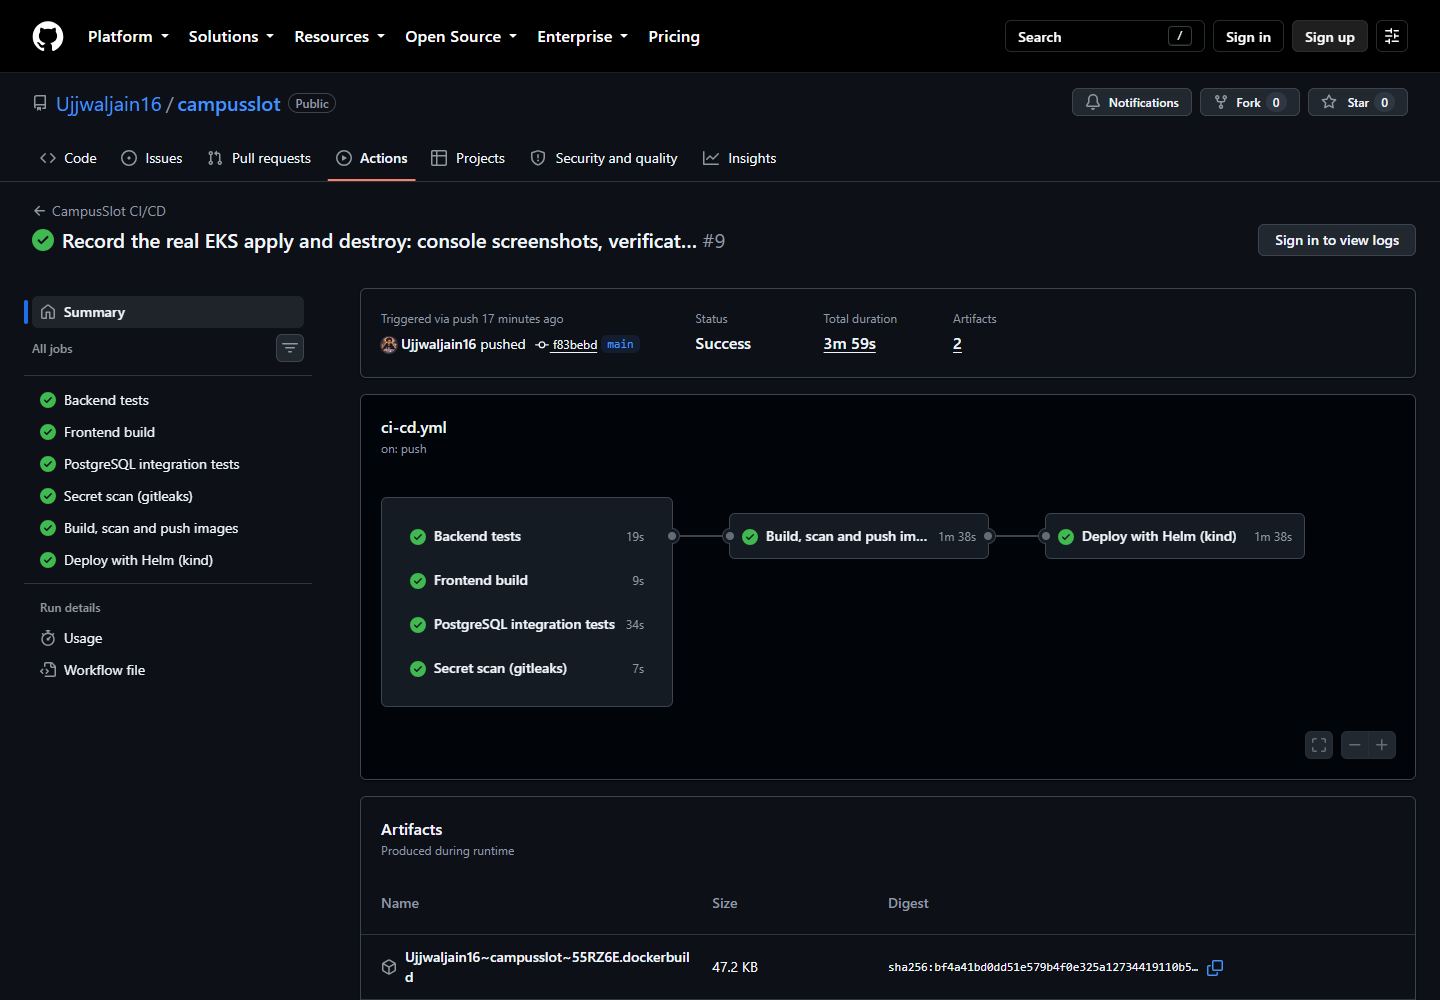
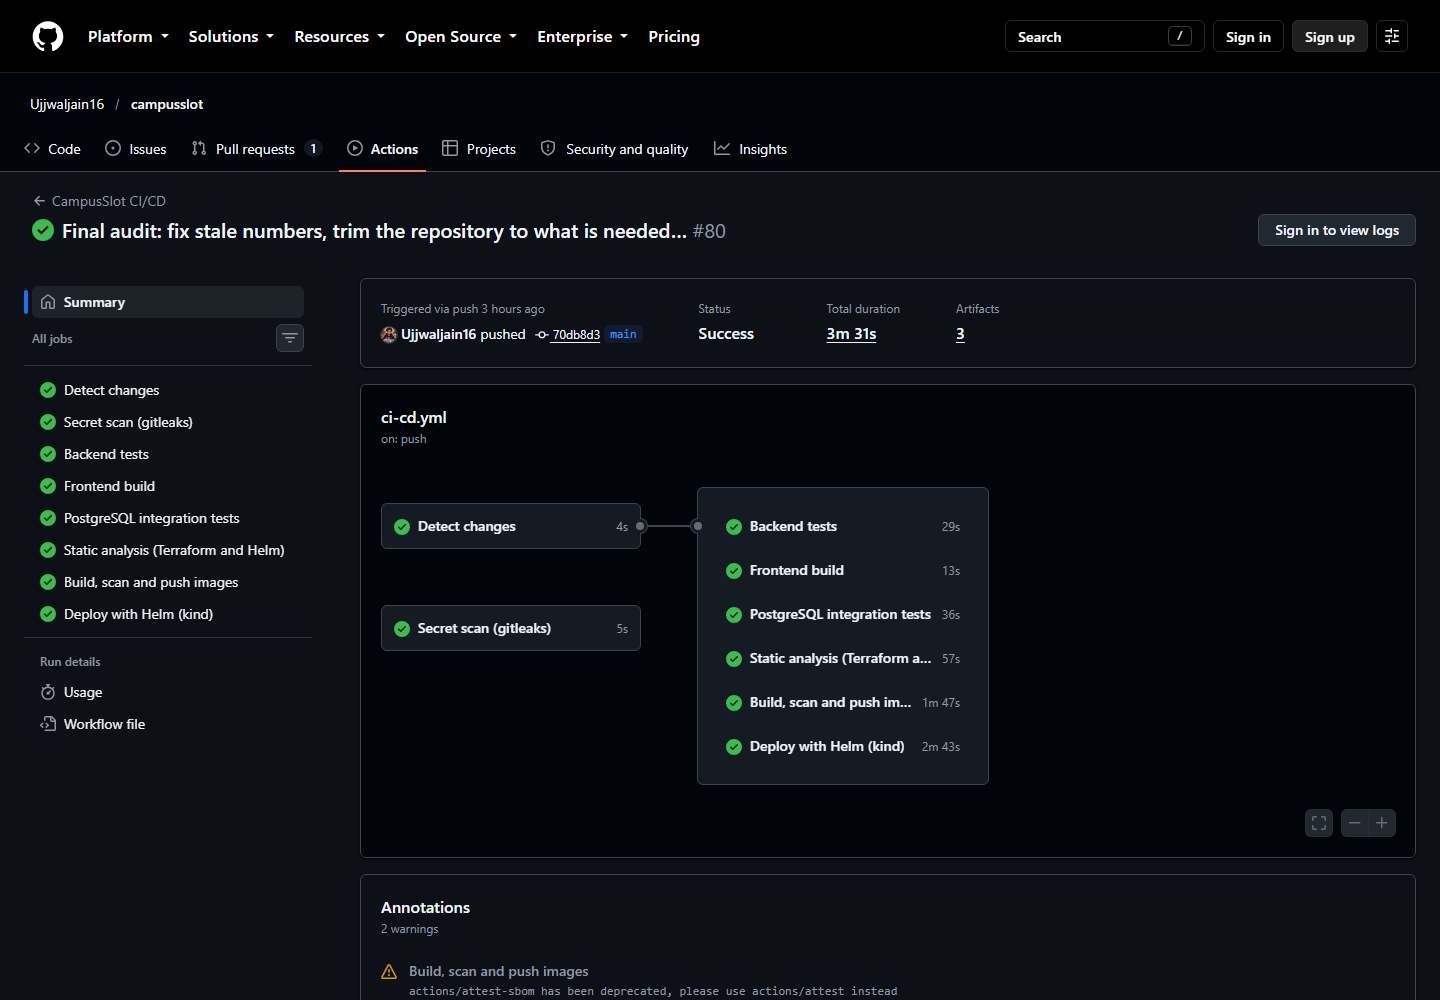
Run PostgreSQL read-only and drop the expiring Trivy exception (#24)
* Run PostgreSQL with a read-only root file system and drop the expiring Trivy exception

The PostgreSQL container gets readOnlyRootFilesystem with two emptyDir volumes
(/var/run/postgresql and /tmp), so the KSV-0014 exception in helm/.trivyignore.yaml
is removed instead of extended. Also: the checklist says 'at HEAD' and discloses that an
early commit held a saved Terraform plan (no credentials), the terraform README table
lists the production example, and a stale make deploy-local comment points to the script.

* Refresh the pytest and pipeline screenshots and say which numbers the cluster screenshot predates

diff --git a/README.md b/README.md
@@ -220,7 +220,7 @@ npm test && npm audit --omit=dev --audit-level=high && npm run build
 | Backend, PostgreSQL 16 | 7 passed: migrations (including the range index), the overlap constraint, the database layer returning 409, a concurrent race that creates exactly one booking, and three tests of the range queries (same answer at every boundary, a booking that starts or ends exactly now, and no sequential scan on a large table) | [postgres-tests.txt](docs/evidence/postgres-tests.txt) |
 | Frontend | 12 passed, 0 audit vulnerabilities, production build succeeds | [frontend-tests.txt](docs/evidence/frontend-tests.txt) |
 
-![pytest -v, 42 passed](docs/evidence/terminal-pytest.png)
+![pytest -v, 47 passed (the 7 PostgreSQL tests run in the CI job against a real database)](docs/evidence/terminal-pytest.png)
 
 This screenshot was taken earlier, when the suite had 42 tests. It has 47 now, after the four logging tests in section 15 and a test of the database outage response. The transcript above is the current run.
 
@@ -246,7 +246,7 @@ The `backend-test` job also runs Bandit and `pip-audit`, so the code and the pin
 
 The deploy job creates a throw-away kind cluster, installs the ingress controller, installs the chart with the SHA tagged images, and tests the application through the ingress: the frontend health check, at least six rooms from the API, the deployed commit equal to the commit under test, a booking that returns 201, and the same slot that returns 409. A GitHub runner cannot reach my laptop cluster, so the persistent demo cluster is updated with `scripts/deploy-local.sh <sha>`, which uses the same chart and the same images.
 
-![A green pipeline run](docs/evidence/github-actions-run.png)
+![A green pipeline run: all eight jobs, including the Helm deploy to kind](docs/evidence/github-actions-run.png)
 ![Images in GHCR, tagged with commit SHAs](docs/evidence/ghcr-backend-package.png)
 
 The pipeline was not green on the first try, and three failures taught me something:
@@ -318,7 +318,7 @@ Public worker subnets and no NAT gateway are an intentional simplification for c
 ![Subnets](docs/evidence/aws-subnets.png)
 ![No NAT gateways](docs/evidence/aws-no-nat-gateways.png)
 
-I masked the AWS account number in the screenshots and the transcripts. The application itself is not deployed to EKS.
+I masked the AWS account number in the screenshots and the transcripts at `HEAD`. The application itself is not deployed to EKS.
 
 ## 13. Kubernetes
 
@@ -336,7 +336,7 @@ The release contains a StatefulSet for PostgreSQL with a PersistentVolumeClaim, 
 kubectl port-forward -n ingress-nginx svc/ingress-nginx-controller 8080:80      # http://localhost:8080
 ```
 
-![kubectl get pods, svc, helm list, ingress and hpa](docs/evidence/terminal-kubectl-helm.png)
+![kubectl get pods, svc, helm list, ingress and hpa (taken before the right-sizing: the HPA target is 70 percent now, it was 50 percent then)](docs/evidence/terminal-kubectl-helm.png)
 ![The application through the Ingress](docs/evidence/app-desktop.png)
 
 ### Autoscaling

diff --git a/docs/engineering/static-analysis.md b/docs/engineering/static-analysis.md
@@ -33,10 +33,12 @@ The pipeline checks the claim on every run: it scans the production profile and 
 |---|---|---|
 | AWS-0040, AWS-0041 | The API endpoint is public but restricted to my own address. The rule treats any public address, even a single `/32`, as open | `terraform/.trivyignore.yaml` |
 | AWS-0104, AWS-0164 | Public IPs and open egress are the price of having no NAT gateway | `terraform/.trivyignore.yaml`, ADR 0001 |
-| KSV-0014 (PostgreSQL only) | Needs two `emptyDir` mounts, which I will add and test on a cluster. **The exception expires on 2026-10-20** | `helm/.trivyignore.yaml` |
 | KSV-0020, KSV-0021 | The nginx and postgres images run as uid 101 and uid 70, which own their files | `helm/.trivyignore.yaml` |
 | KSV-0125 | Images come from my own registry, pinned to a commit SHA, and are scanned before they are pushed | `helm/.trivyignore.yaml` |
 | KSV-0110 | An artefact of rendering the chart without a namespace | `helm/.trivyignore.yaml` |
+| KSV-01010 | False positive: the flagged key is `LOG_LEVEL`, which holds no secret | `helm/.trivyignore.yaml` |
+
+KSV-0014 (read-only root file system) used to be a fifth Helm exception for PostgreSQL, with an expiry date. I removed it instead of extending it: the PostgreSQL container now has `readOnlyRootFilesystem: true` with two `emptyDir` volumes (`/var/run/postgresql` and `/tmp`), and the deploy job in CI proves that the database starts and serves bookings in that mode.
 
 ### False positive (1)
 

diff --git a/docs/SUBMISSION-CHECKLIST.md b/docs/SUBMISSION-CHECKLIST.md
@@ -129,7 +129,7 @@ Argo CD GitOps, Loki and Alloy logs, a ConfigMap, a Pod Security profile, four t
 | Backend, PostgreSQL and frontend tests, run again from a clean state | 47 passed (89.79 percent coverage), 7 passed against a real PostgreSQL 16, 12 passed. Transcripts refreshed in `docs/evidence` |
 | Pipeline | the last three runs on `main` are green, including the Helm deploy to a kind cluster |
 | Links | 166 local links in 38 Markdown files, none broken |
-| Secrets | no AWS key, private key or token pattern in any commit, and no state or variables file tracked |
+| Secrets | no AWS key, private key or token pattern in any commit, and no Terraform state, plan or variables file tracked at `HEAD`. An early commit briefly contained a saved Terraform plan with non-secret infrastructure metadata, and the next commit removed it. No credentials were committed |
 | AWS | every region (18) and every service that can bill was checked: nothing is running or stored ([`aws-final-sweep.txt`](evidence/aws-final-sweep.txt)). The free plan credit is 119.94 USD |
 
 ## What I could not fully show

diff --git a/terraform/README.md b/terraform/README.md
@@ -13,6 +13,7 @@ The application itself is not deployed to EKS. Kubernetes, Helm, monitoring and 
 | `main.tf` | VPC module, EKS module, managed node group |
 | `outputs.tf` | VPC and subnet IDs, cluster name and endpoint, the `update-kubeconfig` command |
 | `terraform.tfvars.example` | Template for the local, git-ignored `terraform.tfvars` |
+| `terraform.tfvars.prod.example` | The same template with the three security switches turned on (the production profile) |
 
 ## Design decisions
 
